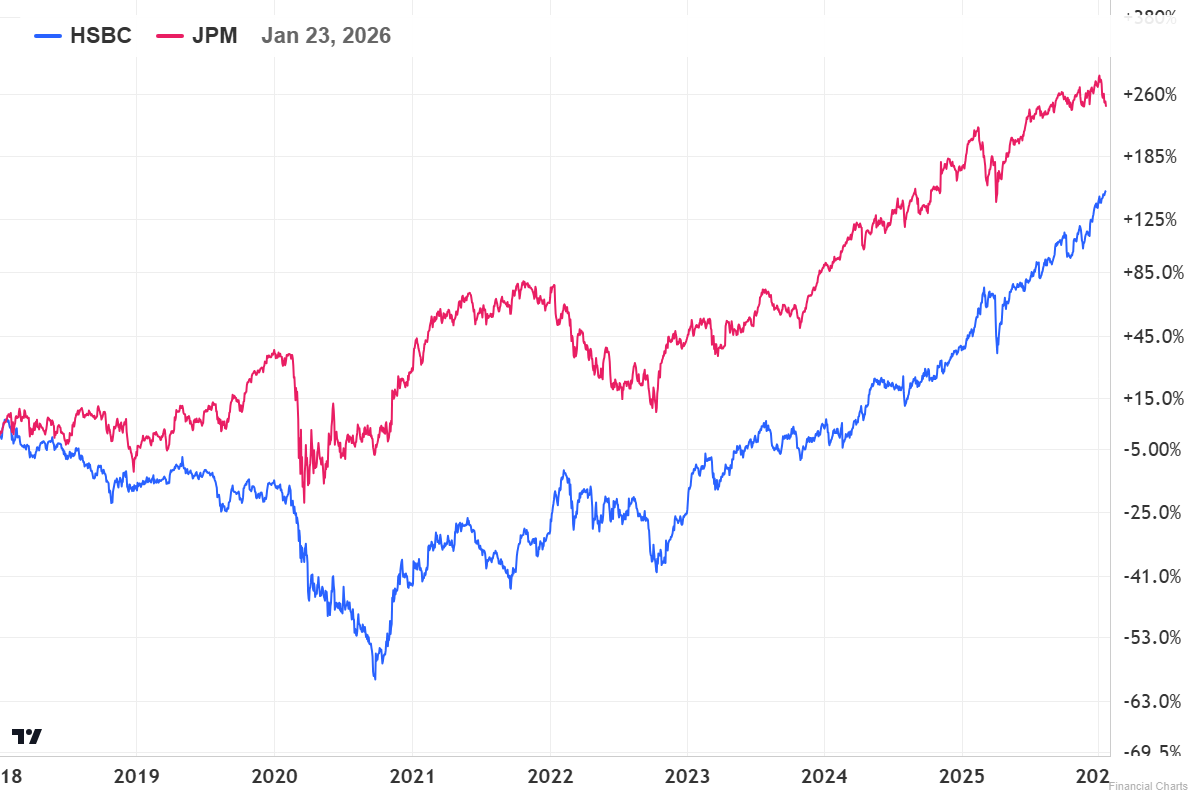
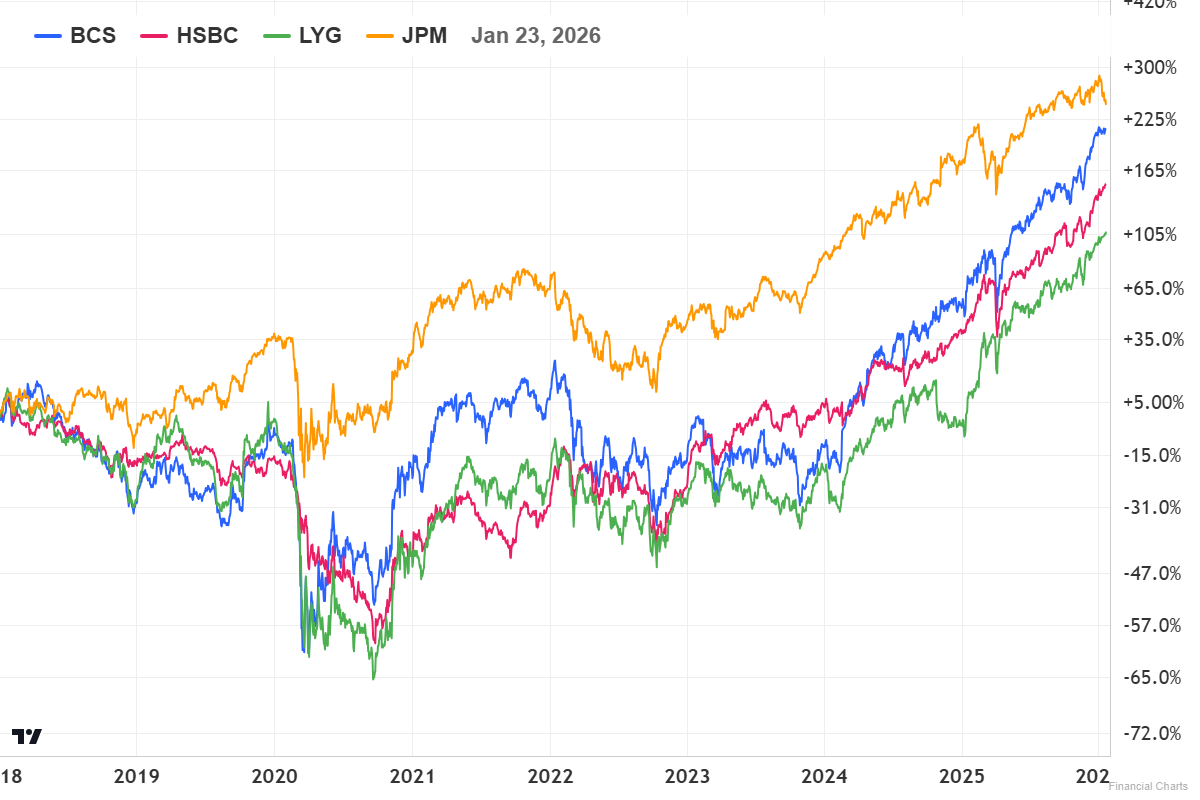
Fix Barclays chart - add BCS and LYG data
Added BCS (Barclays) and LYG (Lloyds) to database.
Chart now shows all 4 tickers. Updated narrative:
BCS +225% actually outperforms UK peers (HSBC, Lloyds).

diff --git a/investing/Actors/Barclays.md b/investing/Actors/Barclays.md
@@ -20,7 +20,7 @@ aliases: [BCS, Barclays PLC]
 | Ticker | **BCS** (NYSE), BARC (LSE) |
 
 ![[barclays-vs-peers.png]]
-*UK banks (Barclays, HSBC, Lloyds) all flat since 2018 while JPM +150%. Barclays' IB strength hasn't translated to stock outperformance vs domestic peers.*
+*Barclays +225% since 2018 — outperforming UK peers (HSBC +105%, Lloyds +65%) though still trailing JPM +300%. IB strength translating to relative outperformance vs domestic banks.*
 
 *vs [[HSBC]] · [[Lloyds]] · [[JPMorgan]]*
 
